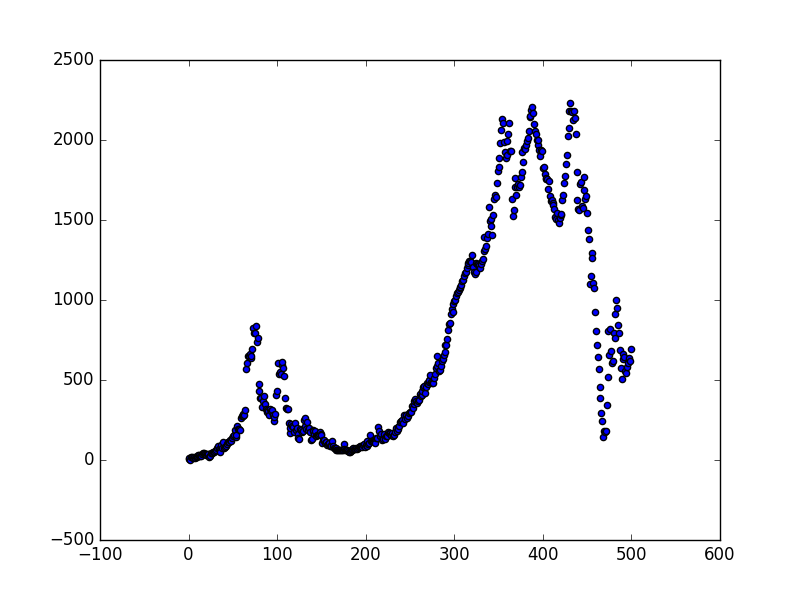
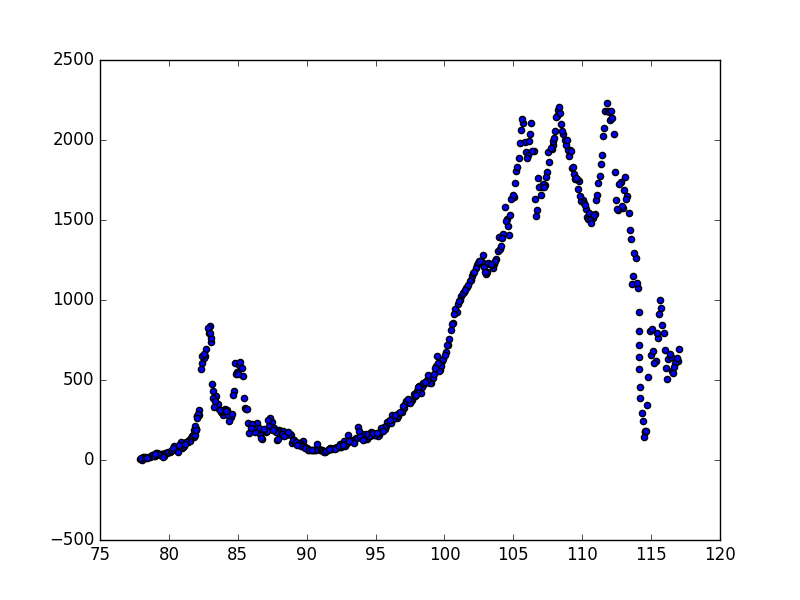
PlotPng

diff --git a/README.md b/README.md
@@ -53,11 +53,9 @@ And so this project was born!
     * Way more precise than my manual routing!
     * But since the Google Elevations API still requires coordinates or polylines, is there a simple way to convert KML? Preferably in Python.
 * Add more highways, of course
-* Make the plot more attractive
+* Make the plot more attractive, add labels, etc.
 * Parse out the polyline from the route, right now I just manually copy/pasted it
 * My Google Maps API key is currently made public, which is certainly not good practice, I'll need to import that separately somehow
-* Plot's x-axis is currently just the index of the sample. Would be better to use mileage, or longitude.
-    * Longitude likely easier, can draw out of Elevation JSON
 
 ## Footnotes
 
